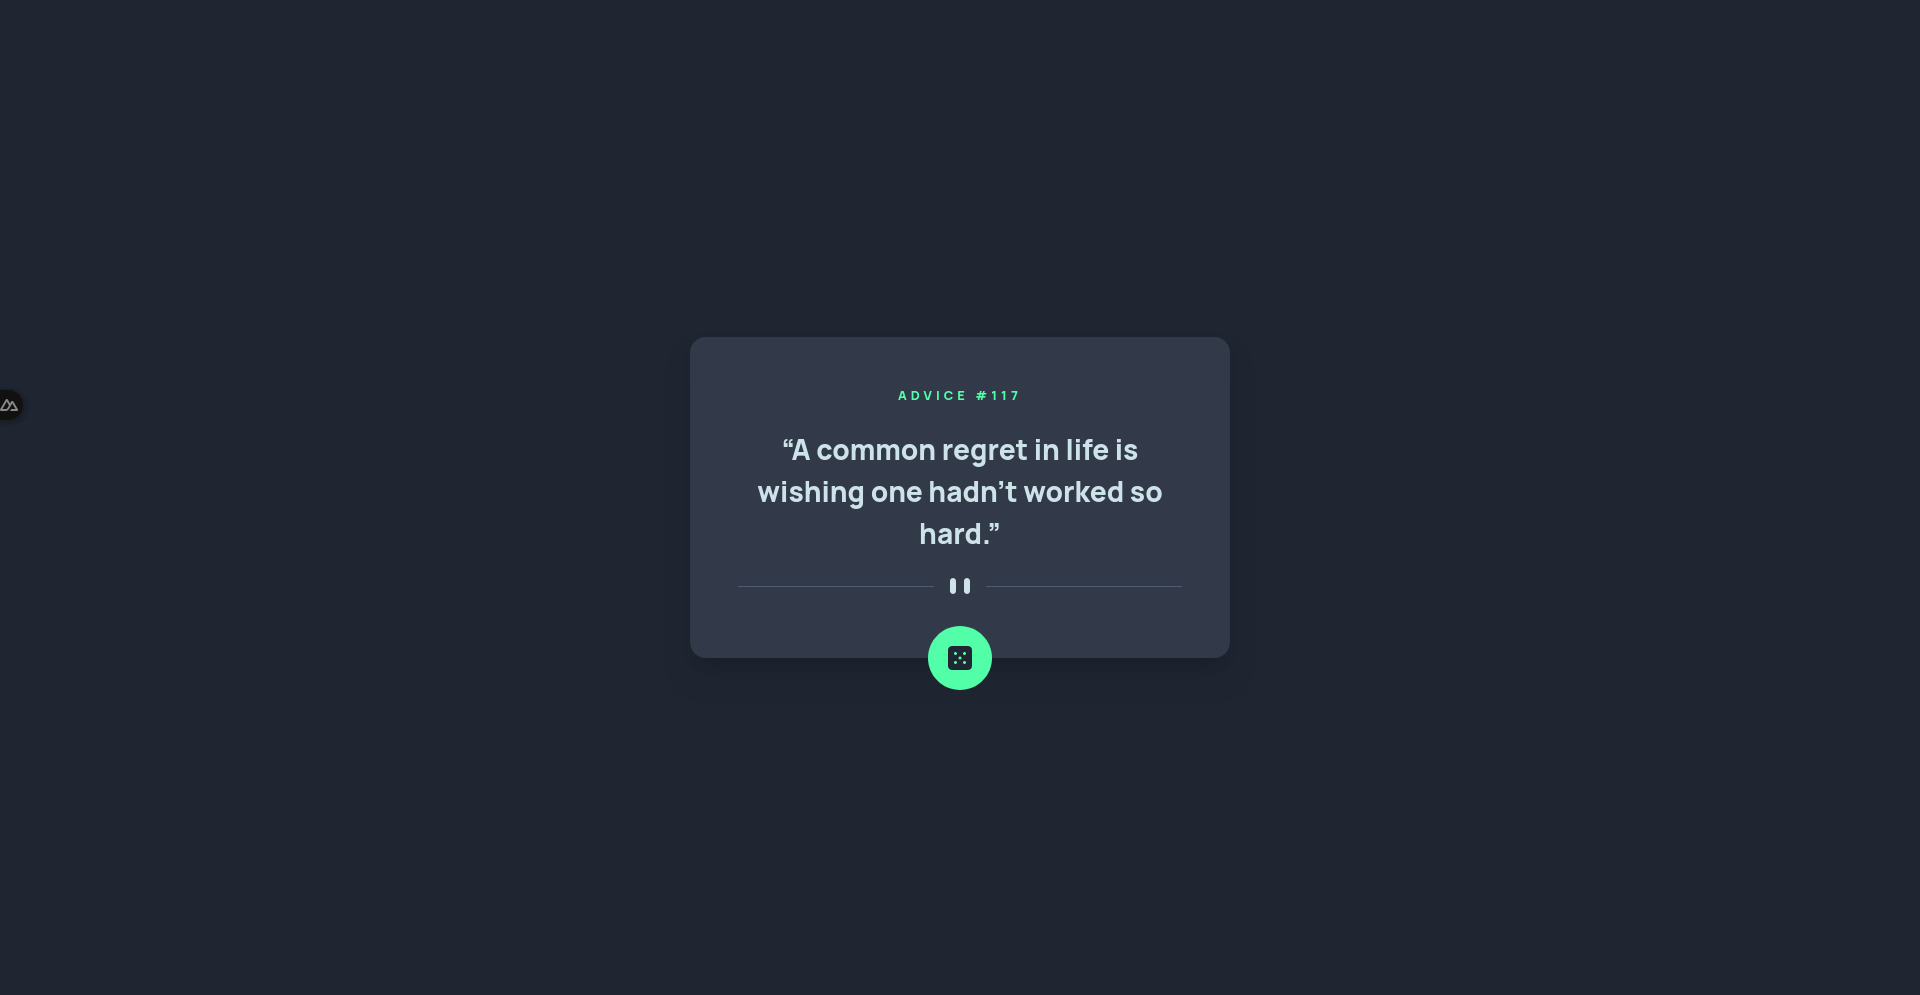
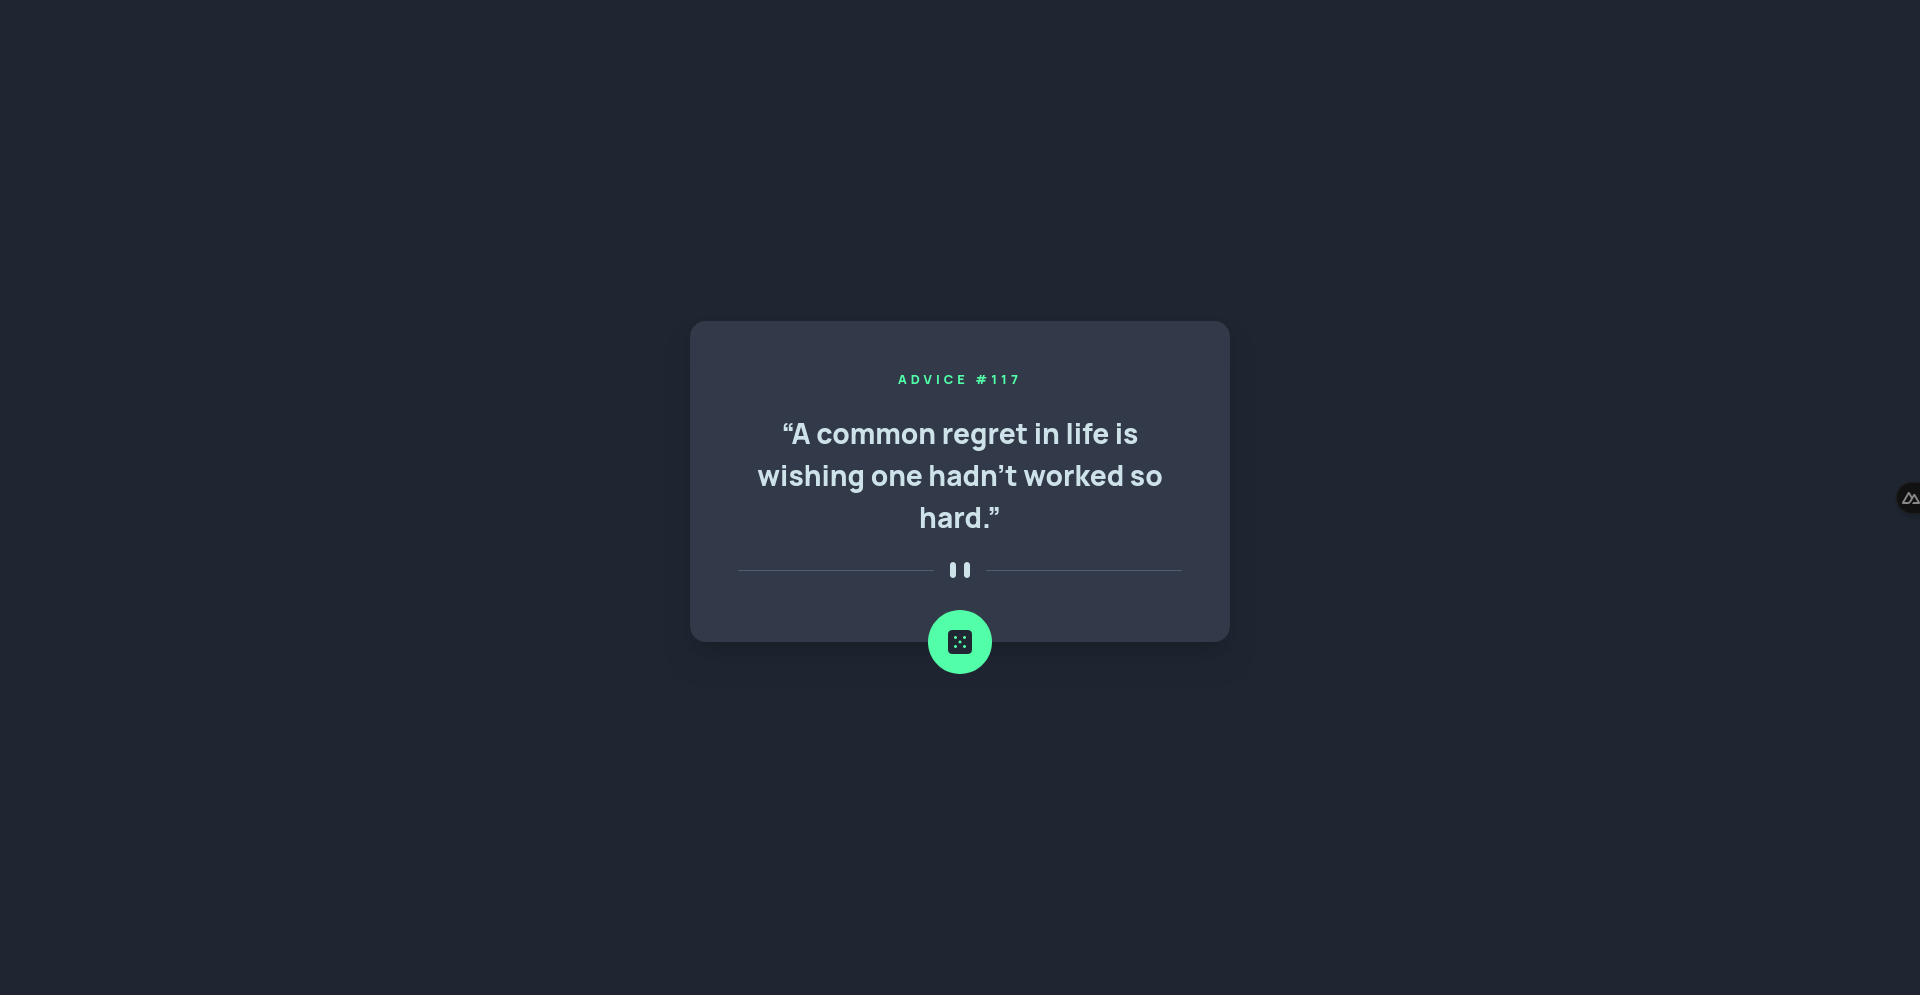
fix: add solution, card position

Changed region(s): [[0.3438, 0.3739, 0.6562, 0.6854], [0.9688, 0.4673, 1.0, 0.5296], [0.0, 0.3739, 0.0312, 0.4362]]

diff --git a/app.vue b/app.vue
@@ -20,7 +20,7 @@ onMounted(() => getQuote())
 
 <template>
   <main class="w-screen h-screen bg-dark-blue flex items-center justify-center">
-    <article class="relative flex flex-col gap-6 px-6 md:px-12 p-12 pb-16 rounded-2xl bg-dark-gray-blue items-center shadow-xl text-center">
+    <article class="relative flex flex-col gap-6 px-6 md:px-12 p-12 pb-16 rounded-2xl bg-dark-gray-blue items-center shadow-xl text-center bottom-[16px]">
       <small>{{ 'Advice #' + id }}</small>
       <q class="w-[295px] md:w-[444px]">{{ advice }}</q>
       <img class="hidden md:block" src="/images/pattern-divider-desktop.svg" alt="Pattern divider" />

diff --git a/README.md b/README.md
@@ -30,7 +30,7 @@ Users are able to:
 
 ### Links
 
-- [Solution]()
+- [Solution](https://www.frontendmentor.io/solutions/responsive-advice-generator-app-with-nuxt-and-tailwind-6vdWpBWOSF)
 - [Live Site](https://fm-advice-generator-app-tau.vercel.app/)
 
 ## My process
